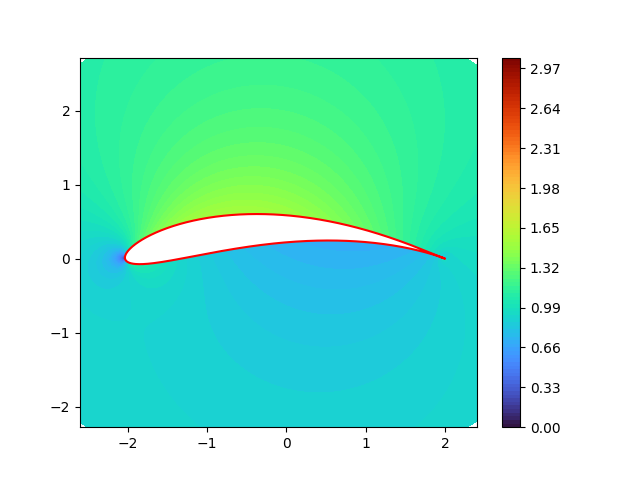
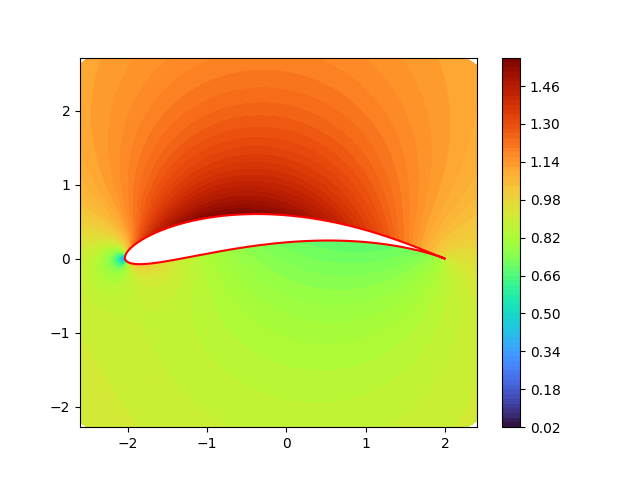
generated new figures for gamma = -2.8

diff --git a/python/project 1/premade_figures.py b/python/project 1/premade_figures.py
@@ -4,27 +4,27 @@ a = 1.12
 z0 = -0.1 + 0.22j
 correct_gamma = -2.8
 #region a)
-#question_a(save=True, filename='a_scatter.png')
+question_a(save=True, filename='a_scatter.png')
 #endregion
 #region b)
-#plotter(plotter_function(1, a, 0), joukowski=False, draw_shape=True, fig_limit=2.5, contours=100, save=True, filename='b_streamfunction_gamma0.png')
-#plotter(plotter_function(1, a, -3), joukowski=False, draw_shape=True, fig_limit=2.5, contours=100, save=True, filename='b_streamfunction_gamma-3.png')
+plotter(plotter_function(1, a, 0), joukowski=False, draw_shape=True, fig_limit=2.5, contours=100, save=True, filename='b_streamfunction_gamma0.png')
+plotter(plotter_function(1, a, -3), joukowski=False, draw_shape=True, fig_limit=2.5, contours=100, save=True, filename='b_streamfunction_gamma-3.png')
 #endregion
 #region c)
-#plotter(plotter_function(1, a, 0), joukowski=True, draw_shape=True, fig_limit=2.5, contours=100, save=True, filename='c_streamfunction_gamma0.png')
-#plotter(plotter_function(1, a, -3), joukowski=True, draw_shape=True, fig_limit=2.5, contours=100, save=True, filename='c_streamfunction_gamma-3.png')
+plotter(plotter_function(1, a, 0), joukowski=True, draw_shape=True, fig_limit=2.5, contours=100, save=True, filename='c_streamfunction_gamma0.png')
+plotter(plotter_function(1, a, -3), joukowski=True, draw_shape=True, fig_limit=2.5, contours=100, save=True, filename='c_streamfunction_gamma-3.png')
 #endregion
 #region d)
-#plotter(plotter_function(1, a, correct_gamma), joukowski=True, draw_shape=True, fig_limit=0.3, fig_offset=[2.1, -0.2], contours=400, save=True, filename=f'd_streamfunction_gamma-{correct_gamma}.png')
+plotter(plotter_function(1, a, correct_gamma), joukowski=True, draw_shape=True, fig_limit=0.3, fig_offset=[2.1, -0.2], contours=400, save=True, filename=f'd_streamfunction_gamma-{correct_gamma}.png')
 #endregion
 #region e)
-#plotter(plotter_function(1, a, correct_gamma), joukowski=True, draw_shape=True, fig_limit=2.5, contours=100, save=True, filename=f'e_streamfunction_gamma-{correct_gamma}.png')
-#plotter(plotter_function(1, a, correct_gamma, function='stream'), joukowski=True, draw_shape=True, fig_limit=0.3, fig_offset=[2.1, -0.2], contours=800, save=True, filename=f'e_zoomed_streamfunction_gamma-{correct_gamma}.png')
+plotter(plotter_function(1, a, correct_gamma), joukowski=True, draw_shape=True, fig_limit=2.5, contours=100, save=True, filename=f'e_streamfunction_gamma-{correct_gamma}.png')
+plotter(plotter_function(1, a, correct_gamma, function='stream'), joukowski=True, draw_shape=True, fig_limit=0.3, fig_offset=[2.1, -0.2], contours=800, save=True, filename=f'e_zoomed_streamfunction_gamma-{correct_gamma}.png')
 #endregion
 #region f)
-plotter(plotter_function(1, 0, a, correct_gamma, function='pressure'), joukowski=True, draw_shape=True, fig_limit=2.5, contours=100, colourmap='turbo', fill=True, save=True, filename='f_pressure.png')
-#plotter(plotter_function(1, a, correct_gamma, function='jvelocity'), joukowski=True, draw_shape=True, fig_limit=2.5, contours=100, colourmap='turbo', fill=True, save=True, filename='f_joukowski_velocity.png')
+plotter(plotter_function(1, a, correct_gamma, function='pressure'), joukowski=True, draw_shape=True, fig_limit=2.5, contours=100, colourmap='turbo', fill=True, save=True, filename='f_pressure.png')
+plotter(plotter_function(1, a, correct_gamma, function='jvelocity'), joukowski=True, draw_shape=True, fig_limit=2.5, contours=100, colourmap='turbo', fill=True, save=True, filename='f_joukowski_velocity.png')
 #endregion
 #region g)
-#print_force(1, 0, a=a, gamma=correct_gamma)
+print_force(1, a=a, gamma=correct_gamma)
 #endregion
